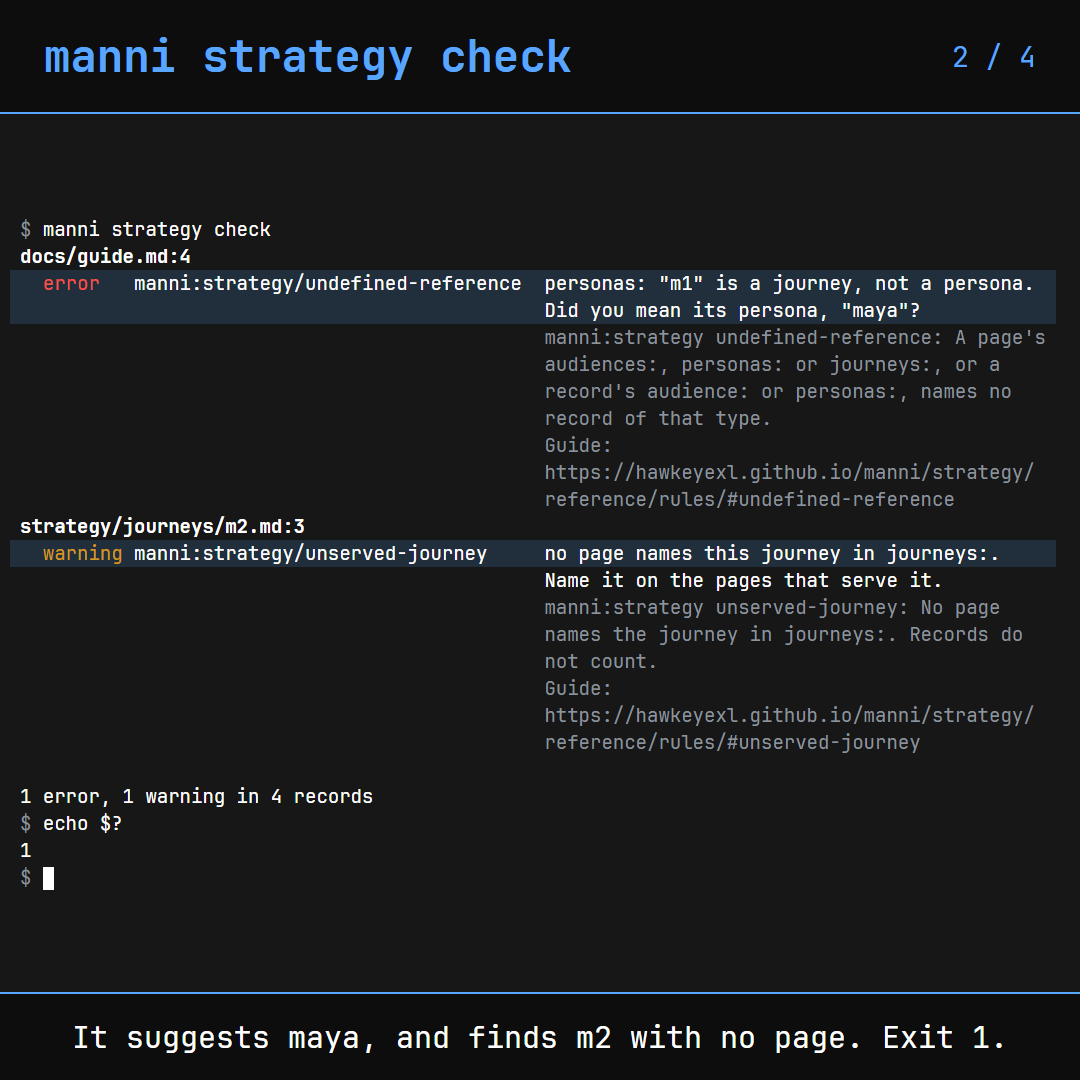
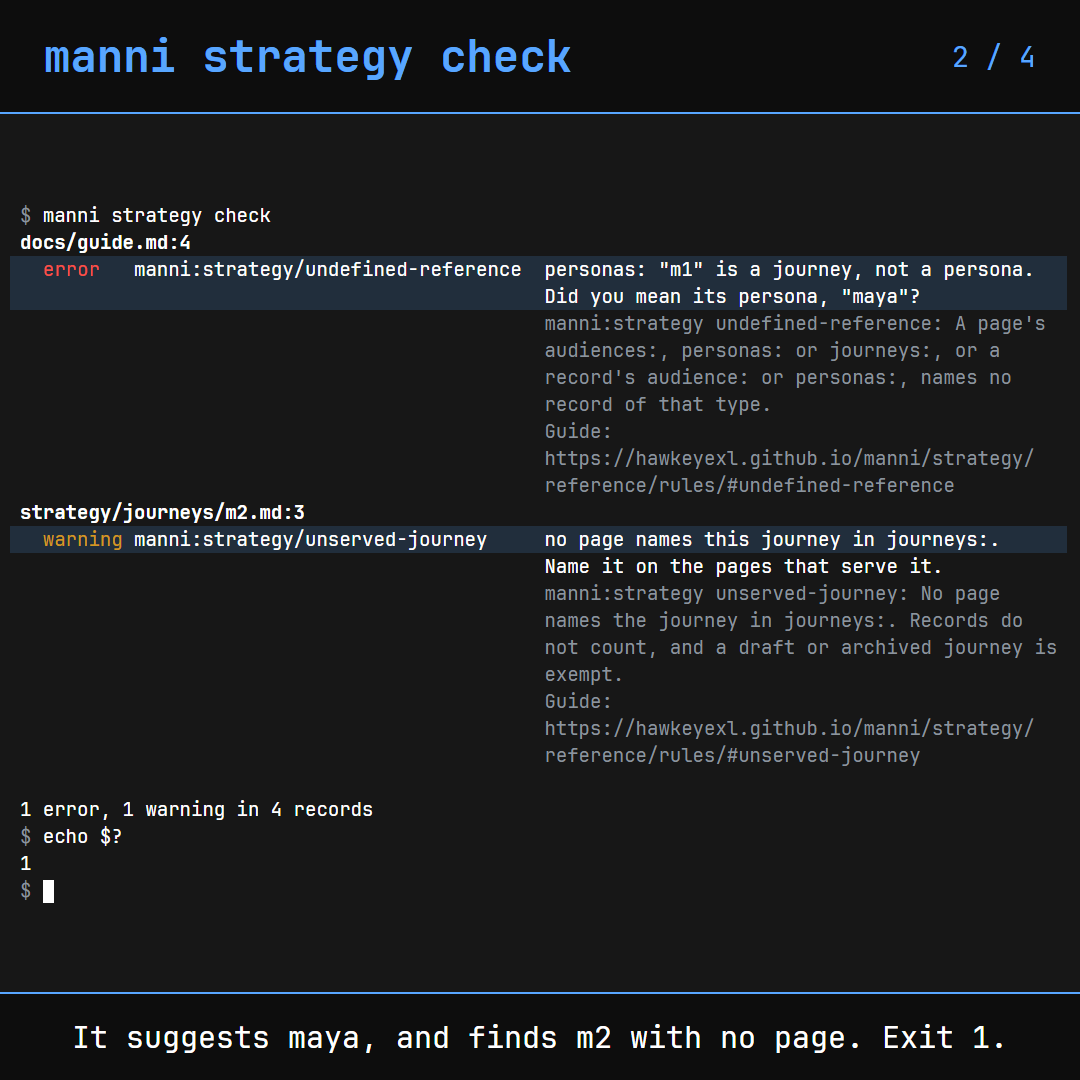
docs(media): re-capture the strategy demo with the new unserved-journey description

Changed region(s): [[0.0, 0.1833, 1.0, 0.7028], [0.0, 0.7333, 0.3667, 0.8556]]

diff --git a/media/remotion/scripts/out-strategy/strategy/beats.js b/media/remotion/scripts/out-strategy/strategy/beats.js
@@ -12,15 +12,15 @@ Object.defineProperty(exports, "FPS", { enumerable: true, get: function () { ret
 exports.TYPING_MS = 45;
 // Measured wall-clock latency, from media/capture-strategy/latency.txt.
 // Replayed at 1x: every run is under 0.5 s, so nothing is compressed.
-//   check-before  406 ms
-//   diff           91 ms
-//   check-after   398 ms
-//   list          406 ms
+//   check-before  340 ms
+//   diff           83 ms
+//   check-after   336 ms
+//   list          336 ms
 exports.latency = {
-    checkBefore: Math.round(0.406 * beats_1.FPS),
-    diff: Math.round(0.091 * beats_1.FPS),
-    checkAfter: Math.round(0.398 * beats_1.FPS),
-    list: Math.round(0.406 * beats_1.FPS),
+    checkBefore: Math.round(0.340 * beats_1.FPS),
+    diff: Math.round(0.083 * beats_1.FPS),
+    checkAfter: Math.round(0.336 * beats_1.FPS),
+    list: Math.round(0.336 * beats_1.FPS),
     cat: 2,
     echo: 1,
 };

diff --git a/media/remotion/src/strategy/beats.ts b/media/remotion/src/strategy/beats.ts
@@ -9,15 +9,15 @@ export const TYPING_MS = 45;
 
 // Measured wall-clock latency, from media/capture-strategy/latency.txt.
 // Replayed at 1x: every run is under 0.5 s, so nothing is compressed.
-//   check-before  406 ms
-//   diff           91 ms
-//   check-after   398 ms
-//   list          406 ms
+//   check-before  340 ms
+//   diff           83 ms
+//   check-after   336 ms
+//   list          336 ms
 export const latency = {
-  checkBefore: Math.round(0.406 * FPS),
-  diff: Math.round(0.091 * FPS),
-  checkAfter: Math.round(0.398 * FPS),
-  list: Math.round(0.406 * FPS),
+  checkBefore: Math.round(0.340 * FPS),
+  diff: Math.round(0.083 * FPS),
+  checkAfter: Math.round(0.336 * FPS),
+  list: Math.round(0.336 * FPS),
   cat: 2,
   echo: 1,
 };

diff --git a/media/strategy-check-1x1.script.md b/media/strategy-check-1x1.script.md
@@ -64,7 +64,7 @@ warning opened.
   `git diff` gets `-c color.ui=always` for the same reason: the capture is a
   file, and that flag gives the colour git prints to a terminal.
 - **Latency is replayed at 1x** (`capture-strategy/latency.txt`): check
-  before 406 ms, diff 91 ms, check after 398 ms, list 406 ms. Nothing is
+  before 340 ms, diff 83 ms, check after 336 ms, list 336 ms. Nothing is
   compressed.
 - **The check's layout sets beat 2's size.** `strategy check` prints each
   message under a 46-column gutter, and its dim rule and Guide lines run to
@@ -72,7 +72,12 @@ warning opened.
 - **Font size is derived per beat, not chosen** (`node capture-strategy/cols.mjs 19`).
   - Beat 2: **19 px / 91 columns.** The largest size at which neither finding's
     first row wraps. At 20 px the error row breaks before `persona.`, an
-    orphan. The dim lines wrap at spaces under their own gutter. The two
+    orphan. The dim lines wrap at spaces under their own gutter. The
+    `unserved-journey` rule line, which now ends "and a draft or archived
+    journey is exempt.", wraps to a last row of one word, `exempt.`. That
+    is a space wrap of a dim line, not a finding row or a broken token, so
+    the size stays at 19 px. `cols.mjs` counts that row as an orphan, and
+    17 px / 101 columns is its orphan-free size. The two
     Guide URLs (80 and 77 characters, no space) break after a `/`. That is
     the new opt-in `breakAfter="/"` in `Demo.tsx`; nothing else splits a
     token.
@@ -117,7 +122,7 @@ prompt. That is the feature in one frame.
    URLs, broken after a `/`, named above.
 3. Captions on every beat, one line each, burned in and in the `.vtt` and
    `.srt`.
-4. `ffprobe`: 1080×1080, 30 fps, h264 yuv420p, AAC 48 kHz, 37.82 s.
+4. `ffprobe`: 1080×1080, 30 fps, h264 yuv420p, AAC 48 kHz, 37.59 s.
 5. The finished file's audio measures as a silent track at −91 dB. There is
    no narration, so no loudness pass.
 6. Accent `#58a6ff`, blue.
